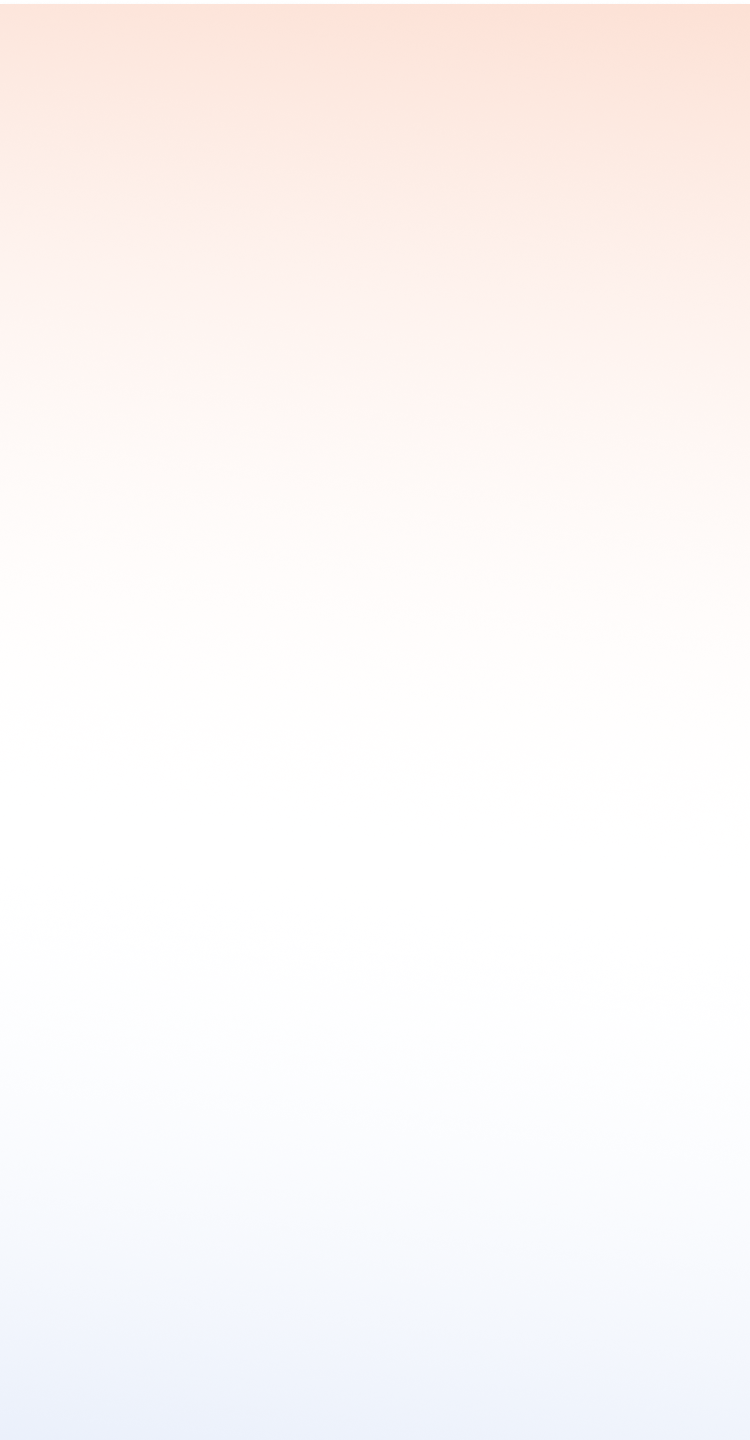
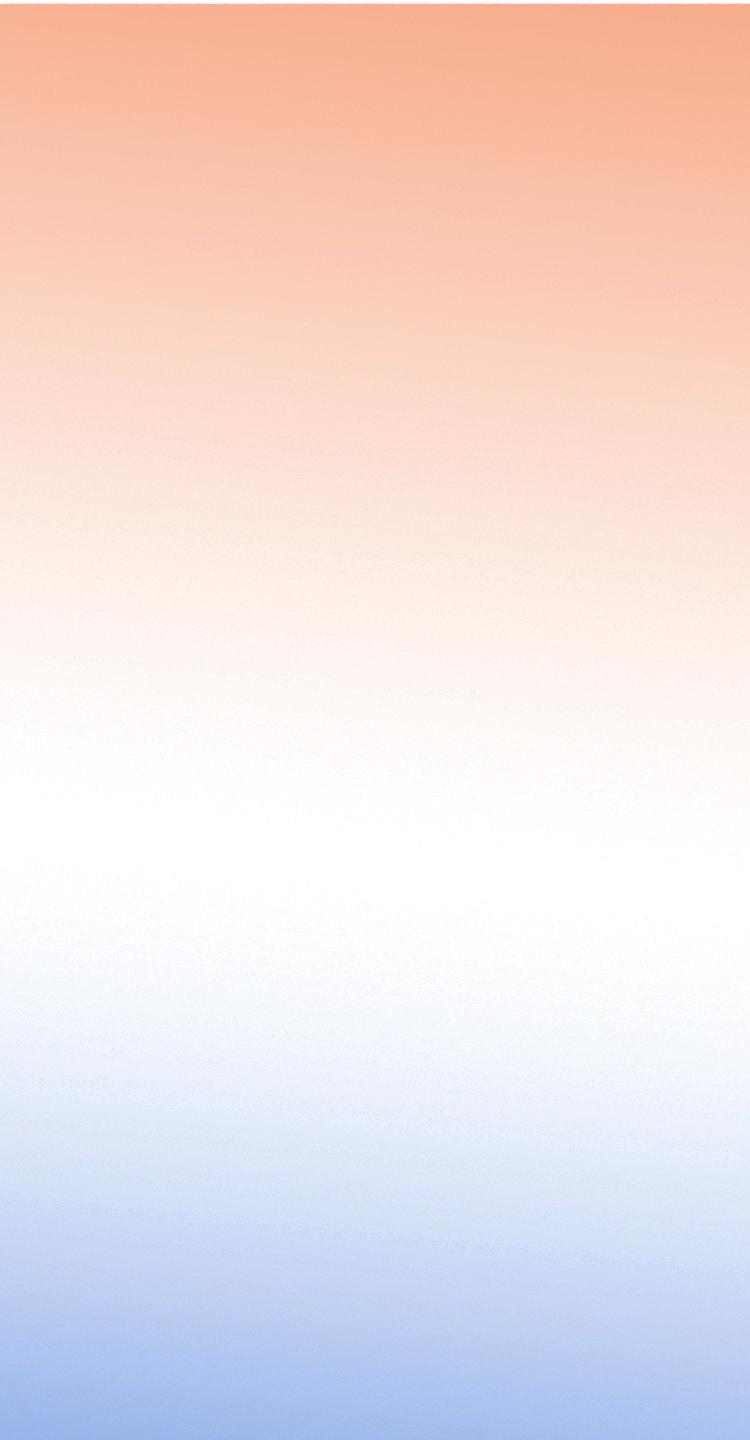
change double bg gradient opacity

diff --git a/components/tasks/client/taskDetails/TaskDetails.tsx b/components/tasks/client/taskDetails/TaskDetails.tsx
@@ -157,7 +157,7 @@ const TaskDetails: React.FC = ({ route, navigation }: any) => {
     <ImageBackground
       source={gradient}
       resizeMode="cover"
-      imageStyle={{ opacity: 1 }}
+      imageStyle={{ opacity: 0.5 }}
       style={styles.container}
     >
       <View style={styles.header}>
@@ -206,7 +206,7 @@ const TaskDetails: React.FC = ({ route, navigation }: any) => {
           </View>
         ))}
       </View>
-     
+
       <View style={styles.footerContainer}>
         <TouchableOpacity onPress={() => setModalVisible(true)}>
           <Text style={styles.deleteText}>Delete</Text>

diff --git a/components/profile/Profile.tsx b/components/profile/Profile.tsx
@@ -33,7 +33,7 @@ const Profile = ({ user }) => {
     <ImageBackground
       source={gradient}
       resizeMode="cover"
-      imageStyle={{ opacity: 1 }}
+      imageStyle={{ opacity: 0.6 }}
       style={styles.container}
     >
       <View style={styles.header}>
